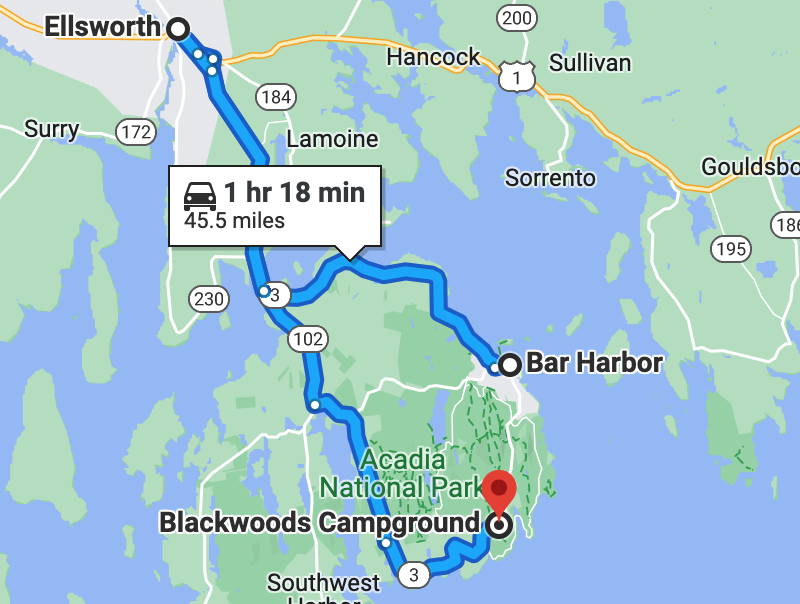
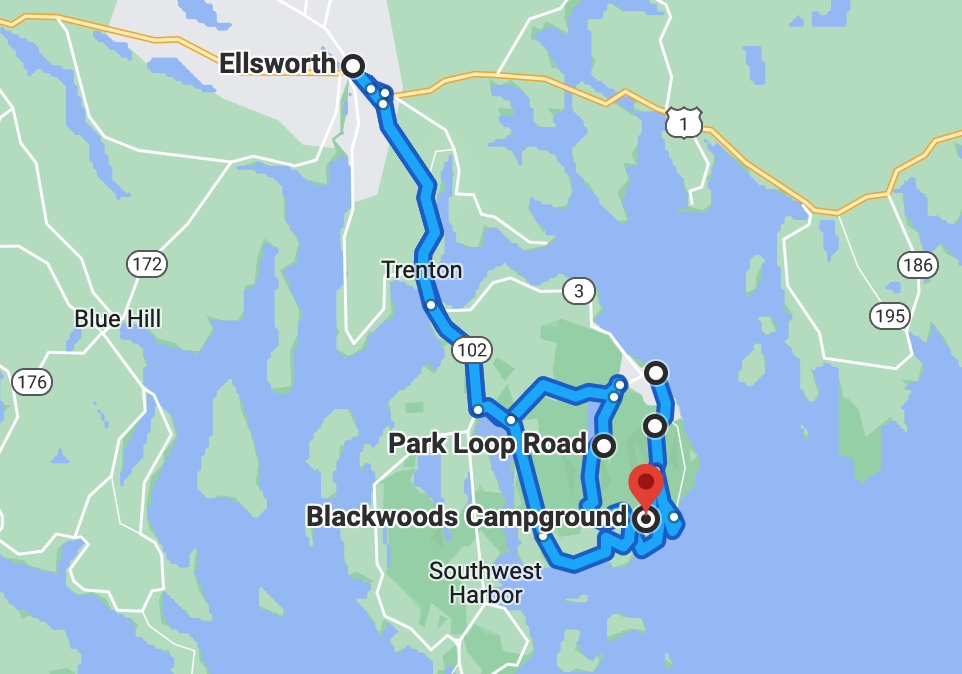
Lots of changes
* Created `template.md` to use for consistency across posts
* Applied standard to 6/26 and 6/27

diff --git a/journal/07-02.md b/journal/07-02.md
@@ -1,0 +1,55 @@
+# 7/02 - The Shire to Five Islands
+
+| [<< Previous Post](07-01.md) | [Index](../README.md) | [Next Post >>](07-03.md) |
+|------------------------------|-----------------------|--------------------------|
+
+## 🌊💨🩳🧦
+
+---
+
+### Today's Trip
+
+**Starting Point:** The Shire, New Horton, New Brunswick, Canada
+
+**Destination:** Five Islands Resort & RV Park, Nova Scotia, Canada
+
+**Distance:** 202 miles
+
+**Total Trip Distance:** 643 miles
+
+**Budget:** ?
+
+
+![map of the shire to five islands](maps/07-02.png "day map")
+
+---
+
+### Journal Entry
+
+* Woke up at ~5 AM to FUCKING MOSQUITO HELL! Pure carnage. Blood everywhere. Bug corpses littered the camper. There was blood on our clothes. Gross.
+* Jay was also horrible hungover from the hooch.
+* The mosquitoes were finally driven out when it started pouring... Not ideal for packing up.
+* We packed up our wet stuff after a little more sleep and GTFO'd after a few quick goodbyes.
+* Stopped at Hopewell Rocks, but admission was $10 each and it was high tide. A sign told us low tide was better for viewing. We decided we might try again when leaving Nova Scotia.
+* We stopped at an Irving to pee.
+* Drove to downtown Moncton. Got some breakfast sammies + cappuccinos with a gift card to Starbucks.
+* Welcome to Nova Scotia!!!
+* The Welcome Center was super windy (there was a wind farm), but it was really nice. The bathrooms were super clean. There was lots of helpful information and also a weird, ferret-like velociraptor statue. 🦖
+* Drove to the campground at Five Islands. Super nice people! Stunning vista. Great views of the five islands. We found a nice spot under a tree. Did some laundry but the dryer shut off before the laundry was dry.
+* We then went to Truro to get some supplies. We went grocery shopping at Soobey's and found a life-changing, battery-powered mattress pump at Walmart ($35).
+* We also picked up some Canadian cash ($30).
+* On the way back to the campsite, we picked up two bags of wood from a road-side stand ($6).
+* When we got back to our campsite, the laundry still wasn't dry. We hung it up all around the tent using the lines for the awning.
+* Made dinner: mango jalapeno chicken sausages with baked beans. Yum!
+* Sleep.
+
+---
+
+### Total Trip to Date
+
+**Distance:** 643 miles
+
+![total trip from fremont to five islands](maps/totals/07-02-total.png "total trip map")
+
+| [<< Previous Post](07-01.md) | [Index](../README.md) | [Next Post >>](07-03.md) |
+|------------------------------|-----------------------|--------------------------|

diff --git a/journal/06-26.md b/journal/06-26.md
@@ -1,9 +1,13 @@
-## 6/26 - Fremont, NH 🇺🇸 to Bar Harbor, ME 🦞
+# 🇺🇸 Fremont, NH to Bar Harbor, ME 🦞
 
-| [Index](../README.md) | [Next Post >>](06-27.md) |
-|-----------------------|--------------------------|
+## 🥵 😭 🚙 🛒 🍺 ☕ 🏨 🍽 🍸 🎹 😎 💥
+
+## Today's Trip
 
 ---
+
+**Date:** Sunday, June 26, 2016
+
 **Starting Point:** Fremont, New Hampshire
 
 **Destination:** Bluenose Inn, Bar Harbor, Maine
@@ -12,22 +16,27 @@
 
 **Total Trip Distance:** 263 miles
 
-**Budget:** $27
-
----
-
-### Today's Trip
-
 ![map from fremont to bar harbor](maps/06-26.png "map")
 
+## The Budget
+
 ---
 
-### Journal Entry
+* $60 daily addition
+* -$54.50 expenses
+  * $23 - Tributary Beer & Sticker
+  * $27 - Campfire grate & camp dessert
+  * $4.50 - Starbucks
+* End of day total: **$5.50**
+
+## Journal Entry
+
+---
 
 * Packed up camp in Fremont - sweaty 😅
 * Goodbyes 😭
 * Drove to Epping
-* Grocery shopping - $40
+* Grocery shopping, didn't count this towards daily budget.
 * Locked up our bikes (this will later bite us in the ass)
 * Drove to Kittery
 * Beer + sticker from Tributary - $23
@@ -35,11 +44,11 @@
 * Drove to Augusta - stopped Starbucks for iced coffee - $4.50
 * Drove to Bar Harbor - checked in at the Bluenose Hotel
 * Walked to downtown Bar Harbor
-  * Ate at Cafe This Way - YUM!
+  * Ate at Café This Way - YUM!
     * Fingerling potato poutine with bourbon gravy
     * Eggplant southwest shepherd's pie - Jay
     * Quail Tikka Masala - Mel
-    * Bottle of NZ Sauv. Blanc
+    * Bottle of NZ Sauvignon Blanc
 * Walked back to hotel
 * Went to "The Great Room"
   * 2x martinis
@@ -50,7 +59,7 @@
 * Nick the bartender was great + sassy. Gave us free nuts.
 * Piano guy was a real showman.
   * Cheesy AF
-  * Shmoozer
+  * Schmoozer
   * Beatles medley
   * Old people
   * Ancient furniture
@@ -58,5 +67,8 @@
 * Hung out in room 😎
 * RIP Scarface 😱
 
-| [Index](../README.md) | [Next Post >>](06-27.md) |
-|-----------------------|--------------------------|
+---
+
+
+| << Previous Post | [Index](../README.md) | [Next Post >>](06-27.md) |
+|------------------|-----------------------|--------------------------|

diff --git a/journal/06-27.md b/journal/06-27.md
@@ -1,30 +1,38 @@
-# 6/27 - Bar Harbor to Acadia
+# 🦞 Bar Harbor, ME to Acadia 🌲
 
-| [<< Previous Post](06-26.md) | [Index](../README.md) | [Next Post >>](06-28.md) |
-|------------------------------|-----------------------|--------------------------|
+##  🏨 🥞 🌲 🏕 🚙 🛒 🔥 🍻 🤘 🍔
 
-## 🌊🌲🌲... 🚙 ... 🌊🦀🦞
+## Today's Trip
 
 ---
+
+**Date:** Monday, June 27, 2016
+
 **Starting Point:** Bluenose Inn, Bar Harbor, ME
 
 **Destination:** Blackwoods Campground, Acadia National Park, ME
 
-**Distance:** 45.5 Miles
+**Distance:** 69 Miles
 
-**Total Trip Distance:** 254 miles
-
-**Budget:** $-1
-
----
-
-### Today's Trip
+**Total Trip Distance:** 332 miles
 
 ![map from bar harbor to acadia](maps/06-27.png "day map")
 
+## The Budget
+
 ---
 
-### Journal Entry
+* $5.50 from previous day
+* $60 daily addition
+* -$63 expenses
+  * Campground - $45
+  * Ice & Seam Seal - $8
+  * Wood - $10
+* End of day total: **$2.50**
+
+## Journal Entry
+
+---
 
 * Checked out of hotel - glass elevator
 * Walked to downtown Bar Harbor for breakfast @ Jeannie's
@@ -33,7 +41,7 @@
 * Set up camp and trailer
 * Drove to Ellsworth
 * Went to Tractor Supply Company and Marden's, nothing good.
-* Reny's - $91.68
+* Reny's - $91.68, basics that we should have had already. Not counted in the budget.
   * Camp stove - $40
   * Hat for Mel - $20
   * Bluetooth speaker - $20
@@ -44,7 +52,7 @@
   * Clothespins - $1
 * Walmart - $8.24
   * Ice - $3
-  * Seam seal - $4
+  * Seam seal - $5
 * Wood - $10
 * Return to camp
 * Start fire
@@ -65,13 +73,21 @@
   * Asthma (sucks...)
       * Claratin + nose 'roids + solitaire
 
+## Trip Statistics
+
 ---
 
-### Total Trip to Date
+* **Total Distance:** 254 miles
 
-**Distance:** 254 miles
+* **U.S. States**
+  * New Hampshire
+  * Maine
+
+
 
 ![total trip from fremont to acadia](maps/totals/06-27-total.png "total trip map")
+
+---
 
 | [<< Previous Post](06-26.md) | [Index](../README.md) | [Next Post >>](06-28.md) |
 |------------------------------|-----------------------|--------------------------|

diff --git a/journal/template.md b/journal/template.md
@@ -1,0 +1,69 @@
+# `StartingPointEmoji` `StartingPoint` to `Destination` `DestinationEmoji`
+
+##  `EmojiStory`
+
+## Today's Trip
+
+---
+
+**Date:** `Date`
+
+**Starting Point:** `StartingPointAddress`
+
+**Destination:** `DestinationAddress`
+
+**Distance:** `Mileage`
+
+**Total Trip Distance:** `TotalMileage`
+
+![map from `StartingPoint` to `Destination`](maps/`mm-dd`.png "day map")
+
+## The Budget
+
+---
+
+* $`PreviousDay` from previous day
+* $60 daily addition
+* -$`Expenses` expenses
+  * `Expense` - $`Price`
+  * `Expense` - $`Price`
+  * ...
+* End of day total: **`EODBudget`**
+
+## Journal Entry
+
+---
+
+* `JournalEntry`
+  * `JournalEntryDetail`
+    * `EvenMoreDetail`
+* `JournalEntry`
+* ...
+
+## Trip Statistics
+
+---
+
+* **Total Distance:** `TotalMileage` miles
+
+* **U.S. States**
+  * New Hampshire
+  * Maine
+  * ...
+
+* **Canadian Provinces**
+  * New Brunswick
+  * Nova Scotia
+  * ...
+
+* **National Parks**
+  * Acadia
+  * ...
+
+![total trip from fremont to `Destination`](maps/totals/`mm-dd`-total.png "total trip map")
+
+---
+
+| [<< Previous Post](mm-dd.md) | [Index](../README.md) | [Next Post >>](mm-dd.md) |
+|------------------------------|-----------------------|--------------------------|
+

diff --git a/journal/07-01.md b/journal/07-01.md
@@ -6,19 +6,18 @@
 ## 🦟🦟🦟
 
 ---
+
+### Today's Trip
+
 **Starting Point:** Harding's Point Campground, New Brunswick, Canada
 
-**Destination:** The Shire, New Horton, New Brunswick, Canada 
+**Destination:** The Shire, New Horton, New Brunswick, Canada
 
 **Distance:** 139 Miles
 
 **Total Trip Distance:** 557 miles
 
 **Budget:** ? 
-
----
-
-### Today's Trip
 
 ![map of hardings point to the shire](maps/07-01.png "day map")
 

diff --git a/journal/06-30.md b/journal/06-30.md
@@ -7,6 +7,9 @@
 ## 🇨🇦 🦫 🌲 🦫 🇨🇦
 
 ---
+
+### Today's Trip
+
 **Starting Point:** Blackwoods Campground, Acadia National Park, ME
 
 **Destination:** Harding's Point Campground, New Brunswick, Canada
@@ -16,10 +19,6 @@
 **Total Trip Distance:** 454 miles
 
 **Budget:** $30
-
----
-
-### Today's Trip
 
 ![map of acadia to hardings point](maps/06-30.png "day map")
 

diff --git a/journal/06-28.md b/journal/06-28.md
@@ -6,6 +6,9 @@
 ## 🌊🌊🌲🌲🌲___ 🚲_ 🚲___
 
 ---
+
+### Today's Trip
+
 **Starting Point:** Blackwoods Campground, Acadia National Park, ME
 
 **Destination:** Blackwoods Campground, Acadia National Park, ME
@@ -15,10 +18,6 @@
 **Total Trip Distance:** 254 miles
 
 **Budget:** $30
-
----
-
-### Today's Trip
 
 ![map of acadia](maps/06-28.png "day map")
 

diff --git a/journal/06-29.md b/journal/06-29.md
@@ -6,6 +6,9 @@
 ## 🌊🌊🌲🌲🌲
 
 ---
+
+### Today's Trip
+
 **Starting Point:** Blackwoods Campground, Acadia National Park, ME
 
 **Destination:** Blackwoods Campground, Acadia National Park, ME
@@ -13,10 +16,6 @@
 **Distance:** 39 Miles
 
 **Budget:** $30
-
----
-
-### Today's Trip
 
 ![map of acadia](maps/06-29.png "day map")
 
